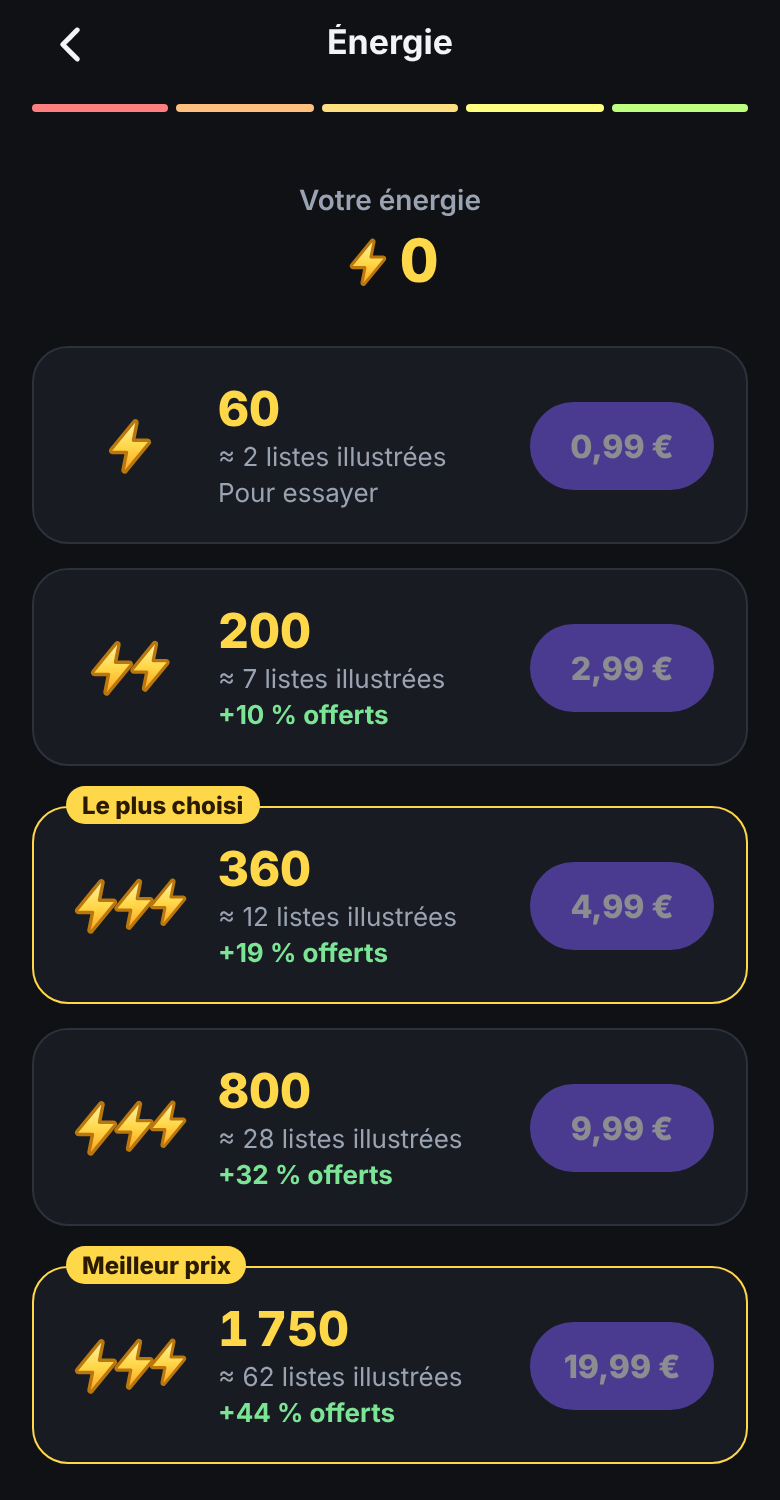
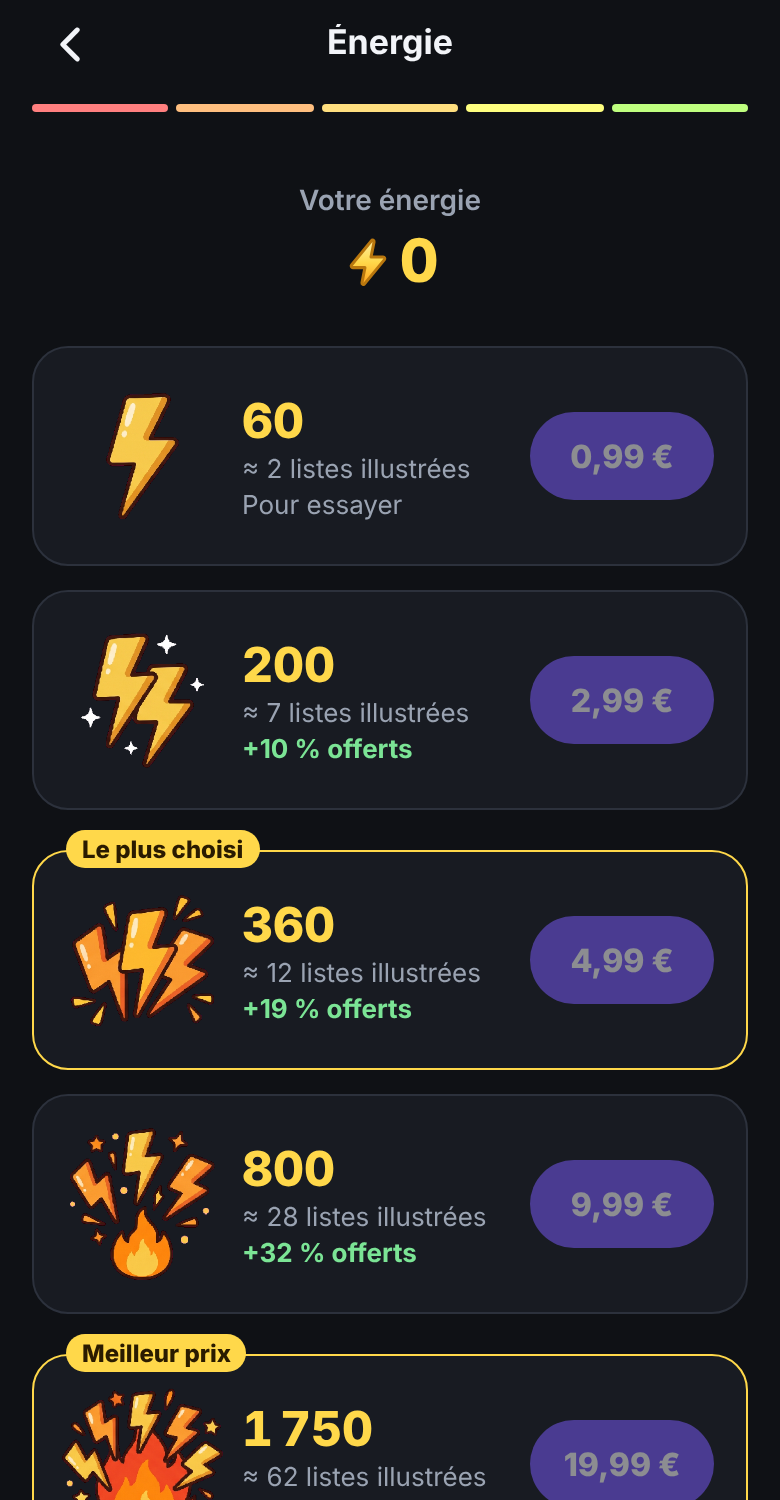
Magasin : chaque pack a son illustration dans le style des icônes, d'un éclair tranquille à cinq éclairs jaillissant d'une boule de feu, de plus en plus épicée à mesure que le pack grossit ; la capture pour la vérification d'Apple est mise à jour
Claude-Session: https://claude.ai/code/session_01DhShhLH3zBuSaDfUSn3tBR

diff --git a/src/app/store.tsx b/src/app/store.tsx
@@ -1,14 +1,23 @@
 import { useEffect } from 'react';
-import { ActivityIndicator, Platform, ScrollView, StyleSheet, Text, View } from 'react-native';
+import { ActivityIndicator, Image, Platform, ScrollView, StyleSheet, Text, View } from 'react-native';
 import { useSafeAreaInsets } from 'react-native-safe-area-context';
 
 import { Clickable } from '../components/Clickable';
-import { ENERGY, EnergyAmount, EnergyIcon } from '../components/Energy';
+import { ENERGY, EnergyAmount } from '../components/Energy';
 import { colors, radius, spacing } from '../constants/theme';
 import { imageCredits } from '../lib/aiGenerate';
 import { openWallet, useCredits } from '../lib/credits';
 import { useResponsive } from '../lib/layout';
 import { bonusPercent, buy, openShop, PACKS, type Pack, useShop } from '../lib/shop';
+
+/** Pack pictures (Gemini sheet in the card icons' style, keyed like them): 1 to 5 bolts. */
+const PACK_ART = [
+  require('../../assets/energy/pack-1.png'),
+  require('../../assets/energy/pack-2.png'),
+  require('../../assets/energy/pack-3.png'),
+  require('../../assets/energy/pack-4.png'),
+  require('../../assets/energy/pack-5.png'),
+];
 
 /** What a full list costs: 10 cards written and illustrated, a yardstick for the packs. */
 const LIST = 10 + imageCredits(10);
@@ -62,14 +71,8 @@ function PackRow({ pack, rank, price, busy, disabled }: { pack: Pack; rank: numb
           <Text style={styles.tagText}>{pack.tag}</Text>
         </View>
       ) : null}
-      {/* One more bolt per pack: the size of the pile says the size of the pack. */}
-      <View style={styles.bolts}>
-        {Array.from({ length: Math.min(rank + 1, 3) }, (_, k) => (
-          <View key={k} style={{ marginLeft: k ? -10 : 0 }}>
-            <EnergyIcon size={30 - k * 2} />
-          </View>
-        ))}
-      </View>
+      {/* Drawn in the icons' style: one more bolt per pack, and hotter, up to the fireball. */}
+      <Image source={PACK_ART[rank]} style={[styles.art, { transform: [{ scale: 0.86 + rank * 0.06 }] }]} accessibilityIgnoresInvertColors />
       <View style={{ flex: 1, gap: 2 }}>
         <Text style={styles.credits}>{pack.credits.toLocaleString('fr-FR')}</Text>
         <Text style={styles.detail}>
@@ -110,7 +113,7 @@ const styles = StyleSheet.create({
   packTagged: { borderColor: ENERGY, marginTop: spacing.sm },
   tag: { position: 'absolute', top: -11, left: spacing.lg, backgroundColor: ENERGY, borderRadius: 10, paddingHorizontal: 8, paddingVertical: 2 },
   tagText: { color: '#2A1B00', fontSize: 12, fontWeight: '800' },
-  bolts: { flexDirection: 'row', width: 64, justifyContent: 'center' },
+  art: { width: 76, height: 76 },
   credits: { color: ENERGY, fontSize: 24, fontWeight: '800', fontVariant: ['tabular-nums'] },
   detail: { color: colors.textMuted, fontSize: 13 },
   bonus: { color: '#7BE495', fontSize: 13, fontWeight: '700' },
